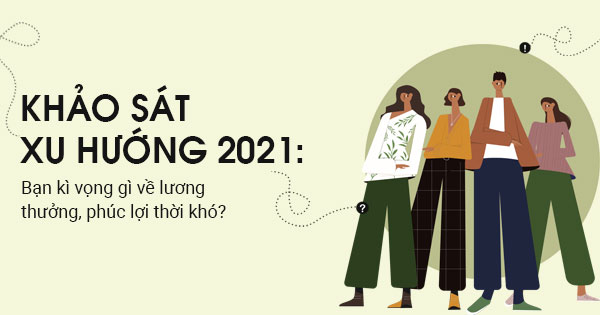
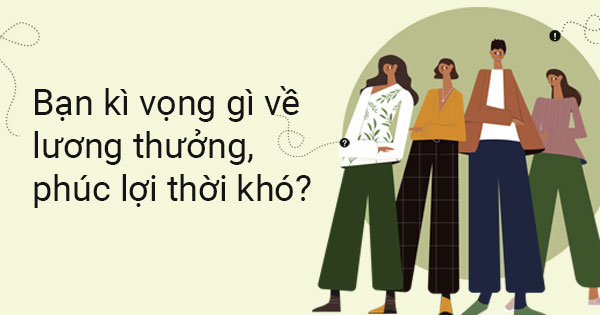
udpate
social share pic

diff --git a/thongtinquatang.html b/thongtinquatang.html
@@ -5,6 +5,10 @@
   <meta charset="UTF-8">
   <meta http-equiv="X-UA-Compatible" content="IE=edge">
   <meta name="generator" content="Mobirise v5.2.6, mobirise.com">
+  <meta name="twitter:card" content="summary_large_image"/>
+  <meta name="twitter:image:src" content="assets/images/thongtinquatang-meta.jpg">
+  <meta property="og:image" content="assets/images/thongtinquatang-meta.jpg">
+  <meta name="twitter:title" content="Thông tin quà tặng">
   <meta name="viewport" content="width=device-width, initial-scale=1, minimum-scale=1">
   <link rel="shortcut icon" href="assets/images/anphabe-01-128x97.png" type="image/x-icon">
   <meta name="description" content="Khảo sát xu hướng 2021: Bạn kì vọng gì về lương thưởng, phúc lợi thời khó?">

diff --git a/khaosatxuhuong2021.html b/khaosatxuhuong2021.html
@@ -5,6 +5,10 @@
   <meta charset="UTF-8">
   <meta http-equiv="X-UA-Compatible" content="IE=edge">
   <meta name="generator" content="Mobirise v5.2.6, mobirise.com">
+  <meta name="twitter:card" content="summary_large_image"/>
+  <meta name="twitter:image:src" content="assets/images/khaosatxuhuong2021-meta.jpg">
+  <meta property="og:image" content="assets/images/khaosatxuhuong2021-meta.jpg">
+  <meta name="twitter:title" content="Khảo sát xu hướng 2021">
   <meta name="viewport" content="width=device-width, initial-scale=1, minimum-scale=1">
   <link rel="shortcut icon" href="assets/images/anphabe-01-128x97.png" type="image/x-icon">
   <meta name="description" content="Bạn kì vọng gì về lương thưởng, phúc lợi thời khó?">
